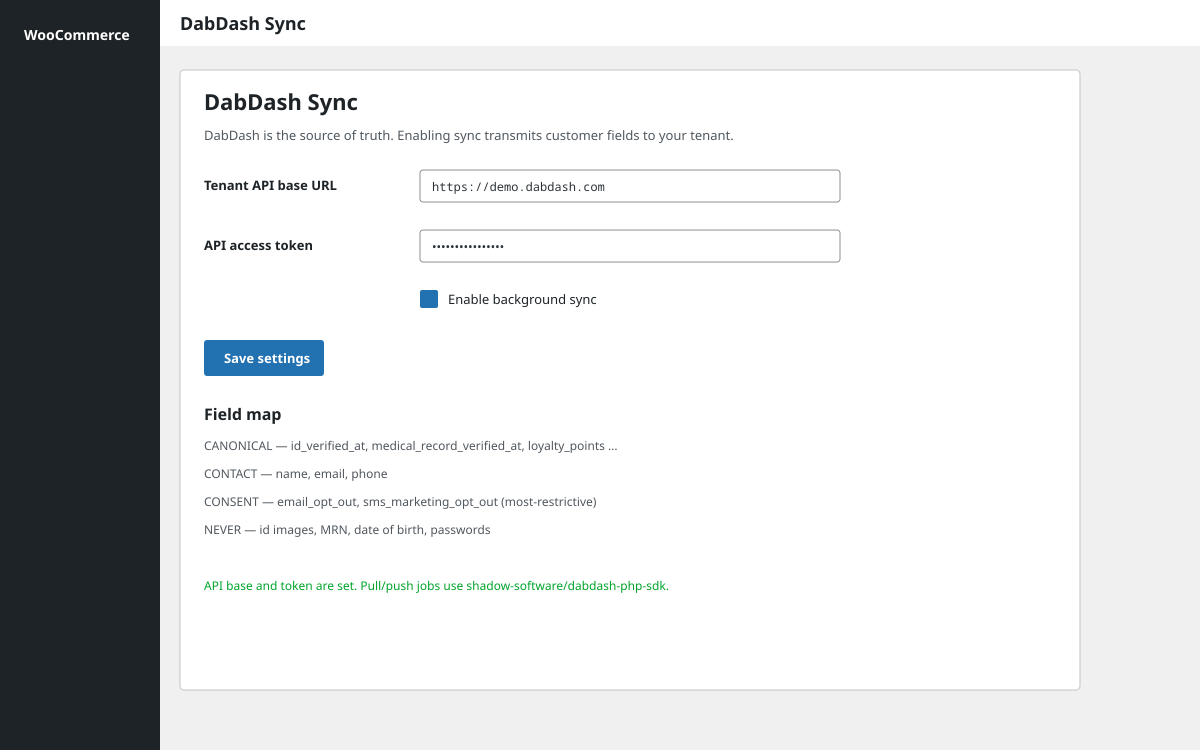
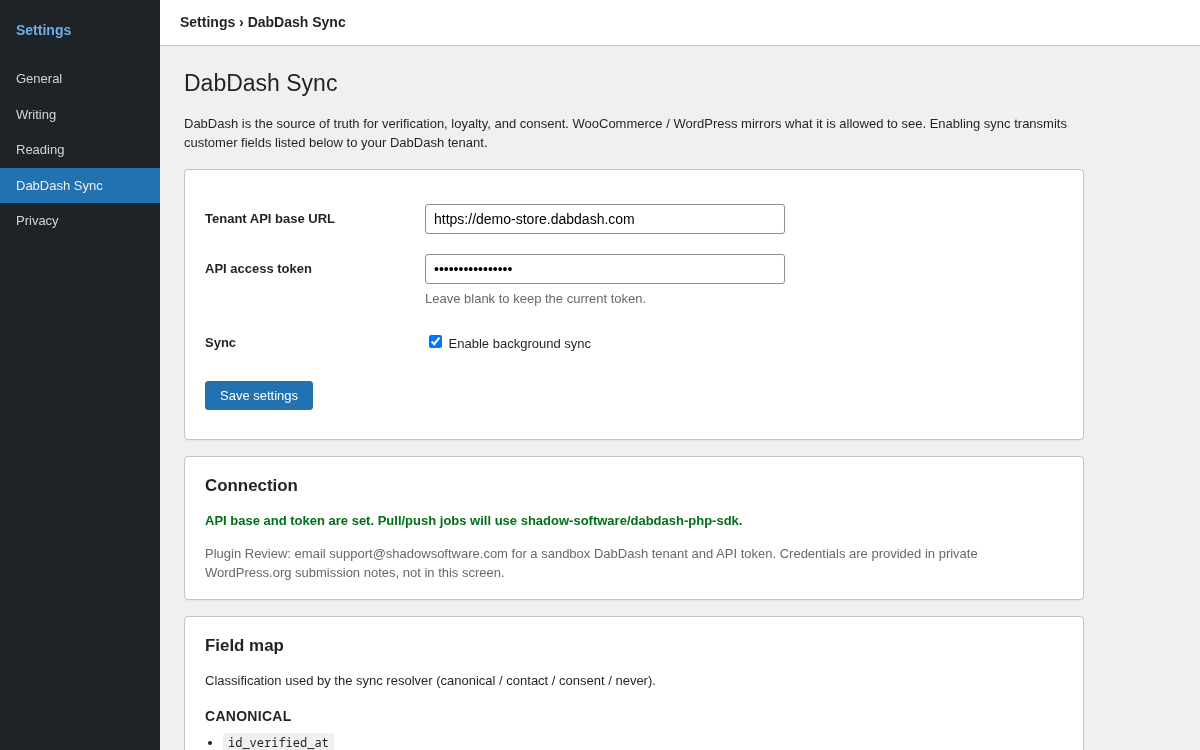
1.0.1 — unify usermeta on _dabdash_woo_* for WP.org prefixes
Rename mirrored usermeta to the dabdash_woo family, deepen External
services, add Plugin Review guidance on settings, and refresh screenshot-1.

diff --git a/includes/Sync/FieldMap.php b/includes/Sync/FieldMap.php
@@ -54,16 +54,16 @@ final class FieldMap {
 	 * @var array<string, string>
 	 */
 	private const CANONICAL_FIELDS = array(
-		'id_verified_at'             => '_dabdash_id_verified_at',
-		'medical_record_verified_at' => '_dabdash_medical_verified_at',
-		'email_verified_at'          => '_dabdash_email_verified_at',
-		'phone_verified_at'          => '_dabdash_phone_verified_at',
-		'phone_validation_status'    => '_dabdash_phone_validation_status',
-		'loyalty_points'             => '_dabdash_loyalty_points',
-		'no_loyalty'                 => '_dabdash_no_loyalty',
-		'no_coupons'                 => '_dabdash_no_coupons',
-		'deletion_requested_at'      => '_dabdash_deletion_requested_at',
-		'last_login_at'              => '_dabdash_last_login_at',
+		'id_verified_at'             => '_dabdash_woo_id_verified_at',
+		'medical_record_verified_at' => '_dabdash_woo_medical_verified_at',
+		'email_verified_at'          => '_dabdash_woo_email_verified_at',
+		'phone_verified_at'          => '_dabdash_woo_phone_verified_at',
+		'phone_validation_status'    => '_dabdash_woo_phone_validation_status',
+		'loyalty_points'             => '_dabdash_woo_loyalty_points',
+		'no_loyalty'                 => '_dabdash_woo_no_loyalty',
+		'no_coupons'                 => '_dabdash_woo_no_coupons',
+		'deletion_requested_at'      => '_dabdash_woo_deletion_requested_at',
+		'last_login_at'              => '_dabdash_woo_last_login_at',
 	);
 
 	/**
@@ -85,16 +85,16 @@ final class FieldMap {
 	 * @var array<string, string>
 	 */
 	private const CONSENT_FIELDS = array(
-		'email_opt_out'           => '_dabdash_email_opt_out',
-		'sms_marketing_opt_out'   => '_dabdash_sms_marketing_opt_out',
-		'sms_notifications_muted' => '_dabdash_sms_notifications_muted',
+		'email_opt_out'           => '_dabdash_woo_email_opt_out',
+		'sms_marketing_opt_out'   => '_dabdash_woo_sms_marketing_opt_out',
+		'sms_notifications_muted' => '_dabdash_woo_sms_notifications_muted',
 	);
 
 	/**
 	 * Never mirrored into WordPress under any setting.
 	 *
 	 * `date_of_birth` is here rather than in CANONICAL on purpose. Age gating is
-	 * satisfied by the derived `_dabdash_is_of_age` flag the API returns; storing
+	 * satisfied by the derived `_dabdash_woo`-derived age flags flag the API returns; storing
 	 * the raw DOB would put a regulated identifier in wp_usermeta for no gain.
 	 *
 	 * @var list<string>

diff --git a/includes/Admin/SettingsPage.php b/includes/Admin/SettingsPage.php
@@ -14,7 +14,7 @@ use DabDashSync\Sync\FieldMap;
 defined( 'ABSPATH' ) || exit;
 
 /**
- * Admin settings UI (scaffold — connect + field map diagnostics).
+ * Admin settings UI — connect a tenant and review field-map diagnostics.
  */
 final class SettingsPage {
 
@@ -71,7 +71,7 @@ final class SettingsPage {
 			add_settings_error(
 				'dabdash_woo',
 				'bad_host',
-				__( 'API base URL must be a DabDash host (*.dabdash.com). Local hosts are only allowed when WP_DEBUG is on.', 'dabdash-for-woocommerce' ),
+				__( 'API base URL must be a DabDash host (*.dabdash.com or *.dabdash.app). Local hosts are only allowed when WP_DEBUG is on.', 'dabdash-for-woocommerce' ),
 				'error'
 			);
 			return;
@@ -162,6 +162,14 @@ final class SettingsPage {
 				echo SdkFactory::is_configured()
 					? esc_html__( 'API base and token are set. Pull/push jobs will use shadow-software/dabdash-php-sdk.', 'dabdash-for-woocommerce' )
 					: esc_html__( 'Not configured yet.', 'dabdash-for-woocommerce' );
+				?>
+			</p>
+			<p class="description">
+				<?php
+				echo esc_html__(
+					'Plugin Review: email support@shadowsoftware.com for a sandbox DabDash tenant and API token. Credentials are provided in private WordPress.org submission notes, not in this screen.',
+					'dabdash-for-woocommerce'
+				);
 				?>
 			</p>
 

diff --git a/includes/Sync/Puller.php b/includes/Sync/Puller.php
@@ -132,7 +132,7 @@ final class Puller {
 	/**
 	 * Apply one remote customer payload to a matching WordPress user.
 	 *
-	 * Matching order: linked `_dabdash_customer_id`, then email. Users are never
+	 * Matching order: linked `_dabdash_woo_customer_id`, then email. Users are never
 	 * created here — an unmatched DabDash customer is skipped.
 	 *
 	 * @param array<string, mixed> $remote Customer fields from the API.
@@ -153,7 +153,7 @@ final class Puller {
 
 		$local           = $this->read_local( $user );
 		$remote_modified = $this->parse_timestamp( isset( $remote['updated_at'] ) ? $remote['updated_at'] : null );
-		$local_modified  = $this->parse_timestamp( get_user_meta( $user->ID, '_dabdash_local_modified', true ) );
+		$local_modified  = $this->parse_timestamp( get_user_meta( $user->ID, '_dabdash_woo_local_modified', true ) );
 
 		$plan = Applier::plan( $remote, $local, $remote_modified, $local_modified );
 

diff --git a/includes/Sync/Hooks.php b/includes/Sync/Hooks.php
@@ -10,7 +10,7 @@ namespace DabDashSync\Sync;
 defined( 'ABSPATH' ) || exit;
 
 /**
- * Stamps `_dabdash_local_modified` when contact or consent fields change locally
+ * Stamps `_dabdash_woo_local_modified` when contact or consent fields change locally
  * so the next pull can propose them upward (consent = most-restrictive).
  */
 final class Hooks {
@@ -31,9 +31,9 @@ final class Hooks {
 		'billing_phone',
 		'first_name',
 		'last_name',
-		'_dabdash_email_opt_out',
-		'_dabdash_sms_marketing_opt_out',
-		'_dabdash_sms_notifications_muted',
+		'_dabdash_woo_email_opt_out',
+		'_dabdash_woo_sms_marketing_opt_out',
+		'_dabdash_woo_sms_notifications_muted',
 	);
 
 	/**
@@ -147,6 +147,6 @@ final class Hooks {
 			return;
 		}
 
-		update_user_meta( $user_id, '_dabdash_local_modified', gmdate( 'c' ) );
+		update_user_meta( $user_id, '_dabdash_woo_local_modified', gmdate( 'c' ) );
 	}
 }

diff --git a/includes/Sync/LinkMap.php b/includes/Sync/LinkMap.php
@@ -17,12 +17,12 @@ final class LinkMap {
 	/**
 	 * Usermeta key for the remote customer id.
 	 */
-	public const META_CUSTOMER_ID = '_dabdash_customer_id';
+	public const META_CUSTOMER_ID = '_dabdash_woo_customer_id';
 
 	/**
 	 * Usermeta key for the last successful sync timestamp (UTC mysql).
 	 */
-	public const META_SYNCED_AT = '_dabdash_synced_at';
+	public const META_SYNCED_AT = '_dabdash_woo_synced_at';
 
 	/**
 	 * DabDash customer id linked to a WP user, or 0.
@@ -37,7 +37,13 @@ final class LinkMap {
 			return 0;
 		}
 
-		return (int) get_user_meta( $user_id, self::META_CUSTOMER_ID, true );
+		$id = (int) get_user_meta( $user_id, self::META_CUSTOMER_ID, true );
+		if ( $id > 0 ) {
+			return $id;
+		}
+
+		// Pre-1.0.1 installs used `_dabdash_customer_id`.
+		return (int) get_user_meta( $user_id, '_dabdash_customer_id', true );
 	}
 
 	/**

diff --git a/uninstall.php b/uninstall.php
@@ -23,6 +23,23 @@ wp_clear_scheduled_hook( 'dabdash_woo_pull' );
 global $wpdb;
 
 $dabdash_woo_meta_keys = array(
+	'_dabdash_woo_customer_id',
+	'_dabdash_woo_synced_at',
+	'_dabdash_woo_local_modified',
+	'_dabdash_woo_id_verified_at',
+	'_dabdash_woo_medical_verified_at',
+	'_dabdash_woo_email_verified_at',
+	'_dabdash_woo_phone_verified_at',
+	'_dabdash_woo_phone_validation_status',
+	'_dabdash_woo_loyalty_points',
+	'_dabdash_woo_no_loyalty',
+	'_dabdash_woo_no_coupons',
+	'_dabdash_woo_deletion_requested_at',
+	'_dabdash_woo_last_login_at',
+	'_dabdash_woo_email_opt_out',
+	'_dabdash_woo_sms_marketing_opt_out',
+	'_dabdash_woo_sms_notifications_muted',
+	// Pre-1.0.1 keys (short `_dabdash_*` form) — delete if present.
 	'_dabdash_customer_id',
 	'_dabdash_synced_at',
 	'_dabdash_local_modified',

diff --git a/docs/SUBMISSION.md b/docs/SUBMISSION.md
@@ -7,7 +7,7 @@ Slug: **`dabdash-for-woocommerce`**
 
 ## Ready
 
-- [x] Plugin header + `readme.txt` Stable tag `1.0.0`
+- [x] Plugin header + `readme.txt` Stable tag `1.0.1`
 - [x] Requires WooCommerce (`Requires Plugins: woocommerce`)
 - [x] GPL-2.0-or-later LICENSE
 - [x] External services section (DabDash tenant API + field list)

diff --git a/CONTRIBUTING.md b/CONTRIBUTING.md
@@ -10,7 +10,7 @@ composer install
 composer ci
 ```
 
-Runtime dependency: `shadow-software/dabdash-php-sdk` (VCS until Packagist).
+Runtime dependency: `shadow-software/dabdash-php-sdk` from Packagist (`^0.2`).
 
 ## Gate
 
